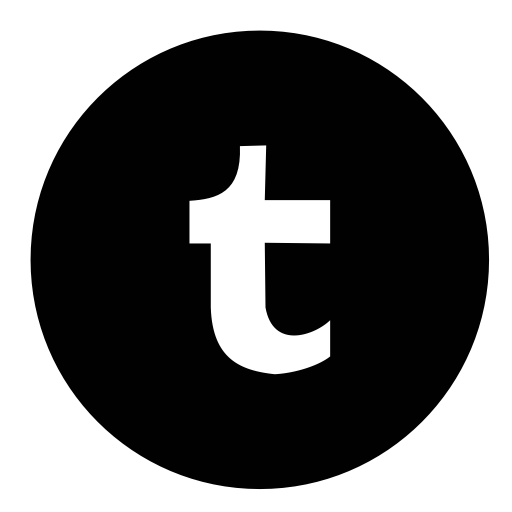
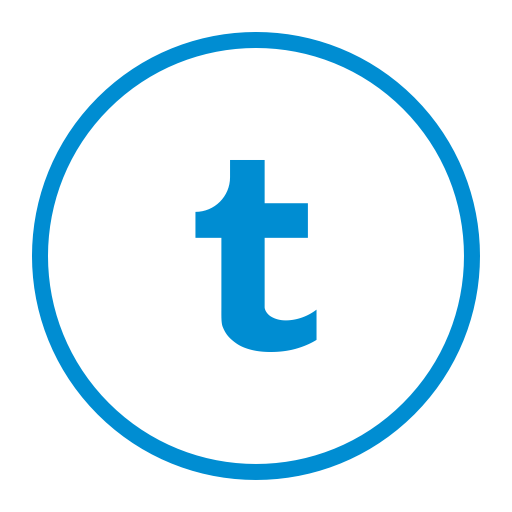
Design and Functionality
Added javascript file
adjusted menu items
adjusted styles of menu items and added a “Choose your Chapter” section
Social Icons have transitions effect

diff --git a/main.css b/main.css
@@ -24,26 +24,34 @@ header {
       color: #aaa; }
   header .comicNav {
     text-align: left;
-    width: 100%; }
+    width: 100%;
+    position: relative;
+    top: 20px; }
+    header .comicNav hr {
+      position: absolute;
+      height: 2px;
+      border: 0;
+      background: black;
+      width: 60%;
+      background: -webkit-gradient(linear, 0 0, 100% 0, from(white), to(white), color-stop(50%, black)); }
+    header .comicNav h3 {
+      margin-top: 30px;
+      margin-left: 30px; }
     header .comicNav ul {
       list-style: none;
       margin: 30px 0 0 0;
       padding: 0; }
       header .comicNav ul li {
         margin-bottom: 20px;
-        font-family: "Helvetica", arial, sans-serif; }
-      header .comicNav ul .circuit1 {
-        margin-bottom: 20px;
-        font-weight: bold;
-        font-size: 20px;
-        text-decoration: none;
-        color: #2ac62f; }
-      header .comicNav ul .tales {
-        margin-bottom: 10px;
+        font-family: "Helvetica", arial, sans-serif;
         font-size: 12px;
         font-weight: bold;
-        color: #bbb;
         text-decoration: none; }
+        header .comicNav ul li a {
+          text-decoration: none;
+          color: #bbb; }
+          header .comicNav ul li a:hover {
+            color: black; }
   header .socialContainer {
     display: flex;
     width: 100%; }
@@ -52,53 +60,42 @@ header {
       background-size: contain;
       background-position: center;
       background-repeat: no-repeat;
-      height: 50px;
-      width: 50px;
-      border-radius: 50%;
       margin-right: 20px; }
     header .socialContainer .tumblr {
       background-image: url(assets/img/tumblr.png);
       background-size: contain;
       background-position: center;
       background-repeat: no-repeat;
-      height: 50px;
-      width: 50px;
-      border-radius: 50%;
       margin-right: 20px; }
     header .socialContainer .instagram {
       background-image: url(assets/img/instagram.png);
       background-size: contain;
       background-position: center;
-      background-repeat: no-repeat;
-      height: 50px;
-      width: 50px;
-      border-radius: 50%; }
+      background-repeat: no-repeat; }
+    header .socialContainer .socialIcon {
+      height: 60px;
+      width: 60px;
+      transition: all 500ms ease-in-out;
+      transform: scale(1); }
+      header .socialContainer .socialIcon:hover {
+        transform: scale(1.2); }
+  header .active {
+    font-weight: bold;
+    font-size: 20px;
+    text-decoration: none;
+    color: #2ac62f !important; }
 
 .home-section {
-  height: 2700px;
+  height: auto;
+  min-width: 50%;
   display: flex;
   flex-direction: column;
-  margin-left: 280px; }
+  margin-left: 350px; }
   .home-section .imageGap {
     margin-bottom: 50px; }
-  .home-section .image1 {
-    background-image: url(assets/img/image1.jpeg);
-    background-size: contain;
-    background-repeat: no-repeat;
-    width: 100%;
-    height: 100%; }
-  .home-section .image2 {
-    background-image: url(assets/img/image2.jpeg);
-    background-size: contain;
-    background-repeat: no-repeat;
-    width: 100%;
-    height: 100%; }
-  .home-section .image3 {
-    background-image: url(assets/img/image3.jpeg);
-    background-size: contain;
-    background-repeat: no-repeat;
-    width: 100%;
-    height: 100%; }
+  .home-section img {
+    width: 50%;
+    height: auto; }
 
 html body {
   margin: 0;

diff --git a/index.html b/index.html
@@ -6,23 +6,22 @@
   <title>Plutonium Art Lab</title>
 </head>
 <body>
-  <header>
-    <div class="logo"></div>
+  <header><a href="#home" class="logo"></a>
     <div class="tagLineContainer">
       <p class="tagLine">Comics and Illustrations by Zach Zuffante</p><a href="mailto:zach.zuffante@gmail.com" class="contactEmail">zach.zuffante@gmail.com</a>
     </div>
     <nav class="comicNav">
+      <h3>Choose Your Chapter <hr></h3>
       <ul>
-        <li><a href="#circuit1" class="circuit1">Circuit 1: Encounter</a></li>
-        <li><a href="#tales1" class="tales">Tales of lji 1 - 2</a></li>
-        <li><a href="#tales3" class="tales">Tales of lji 3</a></li>
+        <li><a href="#circuit1" class="active">Circuit 1: Encounter</a></li>
+        <li><a href="#tales1">Tales of lji 1 - 2</a></li>
+        <li><a href="#tales3">Tales of lji 3</a></li>
       </ul>
+      <div class="socialContainer"><a href="https://twitter.com/zachzuffante" target="_blank" class="twitter socialIcon"></a><a href="http://plutonium.tumblr.com" target="_blank" class="tumblr socialIcon"></a><a href="https://instagram.com/plutonium_art_lab" target="_blank" class="instagram socialIcon"></a></div>
     </nav>
-    <div class="socialContainer"><a href="https://twitter.com/zachzuffante" target="_blank" class="twitter"></a><a href="http://plutonium.tumblr.com" target="_blank" class="tumblr"></a><a href="https://instagram.com/plutonium_art_lab" target="_blank" class="instagram"></a></div>
   </header>
-  <div class="home-section">
-    <div class="image1 imageGap"></div>
-    <div class="image2 imageGap"></div>
-    <div class="image3 imageGap"></div>
+  <div class="home-section"><img src="assets/img/image1.jpeg" class="imageGap"><img src="assets/img/image2.jpeg" class="imageGap"><img src="assets/img/image3.jpeg" class="imageGap"><img src="assets/img/image3.jpeg" class="imageGap"><img src="assets/img/image3.jpeg" class="imageGap"><img src="assets/img/image3.jpeg" class="imageGap"><img src="assets/img/image3.jpeg" class="imageGap"><img src="assets/img/image3.jpeg" class="imageGap"><img src="assets/img/image3.jpeg" class="imageGap"><img src="assets/img/image3.jpeg" class="imageGap"><img src="assets/img/image3.jpeg" class="imageGap"><img src="assets/img/image3.jpeg" class="imageGap"><img src="assets/img/image3.jpeg" class="imageGap"><img src="assets/img/image3.jpeg" class="imageGap">
   </div>
+  <script src="https://code.jquery.com/jquery-3.2.1.min.js" integrity="sha256-hwg4gsxgFZhOsEEamdOYGBf13FyQuiTwlAQgxVSNgt4=" crossorigin="anonymous"></script>
+  <script src="assets/js/functions-min.js"></script>
 </body>

diff --git a/assets/sass/header.sass b/assets/sass/header.sass
@@ -8,7 +8,6 @@ header
   width: 280px
   text-align: center
 
-
   .logo
     background:
       image: url(assets/img/logo.jpeg)
@@ -29,6 +28,19 @@ header
   .comicNav
     text-align: left
     width: 100%
+    position: relative
+    top: 20px
+    hr
+      position: absolute
+      height: 2px
+      border: 0
+      background: black
+      width: 60%
+      background: -webkit-gradient(linear, 0 0, 100% 0, from(white), to(white), color-stop(50%, black))
+
+    h3
+      margin-top: 30px
+      margin-left: 30px
     ul
       list-style: none
       margin: 30px 0 0 0
@@ -37,20 +49,26 @@ header
       li
         margin-bottom: 20px
         font-family: "Helvetica", arial, sans-serif
-
-      .circuit1
-        margin-bottom: 20px
-        font-weight: bold
-        font-size: 20px
-        text-decoration: none
-        color: #2ac62f
-
-      .tales
-        margin-bottom: 10px
         font-size: 12px
         font-weight: bold
-        color: #bbb
         text-decoration: none
+        a
+          text-decoration: none
+          color: #bbb
+          &:hover
+            color: black
+
+      // .circuit1
+      //   font-weight: bold
+      //   font-size: 20px
+      //   text-decoration: none
+      //   color: #2ac62f
+
+      // .tales
+      //   font-size: 12px
+      //   font-weight: bold
+      //   color: #bbb
+      //   text-decoration: none
 
   .socialContainer
     display: flex
@@ -62,10 +80,8 @@ header
         size: contain
         position: center
         repeat: no-repeat
-      height: 50px
-      width: 50px
-      border-radius: 50%
       margin-right: 20px
+
 
     .tumblr
       background:
@@ -73,9 +89,6 @@ header
         size: contain
         position: center
         repeat: no-repeat
-      height: 50px
-      width: 50px
-      border-radius: 50%
       margin-right: 20px
 
     .instagram
@@ -84,6 +97,17 @@ header
         size: contain
         position: center
         repeat: no-repeat
-      height: 50px
-      width: 50px
-      border-radius: 50%
+
+    .socialIcon
+      height: 60px
+      width: 60px
+      transition: all 500ms ease-in-out
+      transform: scale(1)
+      &:hover
+        transform: scale(1.2)
+
+  .active
+    font-weight: bold
+    font-size: 20px
+    text-decoration: none
+    color: #2ac62f !important

diff --git a/assets/sass/home-section.sass b/assets/sass/home-section.sass
@@ -1,32 +1,37 @@
 .home-section
-  height: 2700px
+  height: auto
+  min-width: 50%
   display: flex
   flex-direction: column
-  margin-left: 280px
+  margin-left: 350px
 
   .imageGap
     margin-bottom: 50px
 
-  .image1
-    background:
-      image: url(assets/img/image1.jpeg)
-      size: contain
-      repeat: no-repeat
-    width: 100%
-    height: 100%
+  // .image1
+  //   background:
+  //     image: url(assets/img/image1.jpeg)
+  //     size: contain
+  //     repeat: no-repeat
+  //   width: 100%
+  //   height: 100%
+  //
+  // .image2
+  //   background:
+  //     image: url(assets/img/image2.jpeg)
+  //     size: contain
+  //     repeat: no-repeat
+  //   width: 100%
+  //   height: 100%
+  //
+  // .image3
+  //   background:
+  //     image: url(assets/img/image3.jpeg)
+  //     size: contain
+  //     repeat: no-repeat
+  //   width: 100%
+  //   height: 100%
 
-  .image2
-    background:
-      image: url(assets/img/image2.jpeg)
-      size: contain
-      repeat: no-repeat
-    width: 100%
-    height: 100%
-
-  .image3
-    background:
-      image: url(assets/img/image3.jpeg)
-      size: contain
-      repeat: no-repeat
-    width: 100%
-    height: 100%
+  img
+    width: 50%
+    height: auto

diff --git a/assets/js/functions.js b/assets/js/functions.js
@@ -1,0 +1,4 @@
+$(document).ready(function(){
+
+
+});

diff --git a/assets/js/functions-min.js b/assets/js/functions-min.js
@@ -1,0 +1,1 @@
+$(document).ready(function(){});
